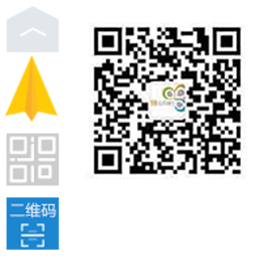
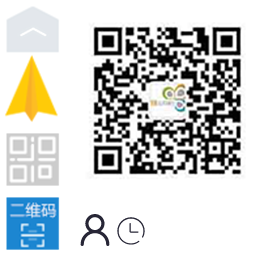
new version

Changed region(s): [[0.2985, 0.7761, 0.4478, 0.9254], [0.4478, 0.806, 0.5373, 0.9254]]

diff --git a/assets/css/blog-post.min.css b/assets/css/blog-post.min.css
@@ -1,2 +1,2 @@
-@font-face{font-family:'Consolas';src:url("/assets/font/Consolas.eot");src:url("/assets/font/Consolas.eot") format("embedded-opentype"),url("/assets/font/Consolas.woff") format("woff"),url("/assets/font/Consolas.ttf") format("truetype"),url("/assets/font/Consolas.svg") format("svg");font-weight:normal;font-style:normal}*{font-family:"Consolas","微软雅黑";box-sizing:border-box;outline:none}*::selection{background:transparent;color:#1C86D1}::-webkit-scrollbar{width:10px}::-webkit-scrollbar-track-piece{background-color:#f5f5f5;border-left:1px solid #d2d2d2}::-webkit-scrollbar-thumb{background-color:rgba(0,0,0,0.6);background-clip:padding-box;border:1px solid #979797;min-height:28px;border-radius:3px}::-webkit-scrollbar-thumb:hover{border:1px solid #636363;background-color:rgba(0,0,0,0.8)}::-webkit-scrollbar-thumb:active{border:1px solid #636363;background-color:#000}body{position:relative;font-size:0;margin:0}ul{list-style:none;padding:0;margin:0}button{border:none;padding:0;background:none;cursor:pointer}a{transition:.3s;color:#1C86D1;text-decoration:none}a:hover{color:#F92672}img{border-radius:5px;border:2px solid #f5f5f5}figure{margin:0}.fade-in{opacity:0}.clear-select{-webkit-touch-callout:none;-webkit-user-select:none;-khtml-user-select:none;-moz-user-select:none;-ms-user-select:none;user-select:none}.highlighter-rouge{margin:0 auto}.highlight{border-radius:5px;padding:20px;box-shadow:0px 0px 6px #000;overflow-x:scroll;tab-size:2}.bg-wrap{position:absolute;z-index:-1;width:100%;height:600px;overflow:hidden;text-align:center}.bg-wrap img{-webkit-filter:blur(20px);-moz-filter:blur(20px);-o-filter:blur(20px);filter:blur(20px);width:100%}.bg-wrap #article-title{position:absolute;top:50%;left:50%;transform:translate(-50%, -50%);color:#f5f5f5;margin:0;display:inline-block;font:200 60px/75px "Consolas","微软雅黑"}.bg-wrap #article-title::before{content:"";display:block;position:absolute;height:45px;width:496px;background-image:url("/assets/img/blog-post/line.png");background-repeat:no-repeat;left:-510px;top:10px;background-position:-100px -18px}.bg-wrap #article-title::after{content:"";display:block;position:absolute;height:45px;width:496px;background-image:url("/assets/img/blog-post/line.png");background-repeat:no-repeat;right:-510px;top:10px;background-position:-40px -136px}.container{position:relative;background:#F8F8F8;padding-top:600px;background-clip:content-box}nav{position:absolute;top:0;width:100%;height:45px;z-index:5201314}nav .nav-wrap{position:relative;width:800px;height:100%;margin:0 auto;transform-origin:50% 0}nav .nav-wrap figure{transition:0.5s cubic-bezier(0.285, 1.65, 0.745, 1.65);border-radius:50%;position:absolute;top:-130px;left:-130px;width:300px;height:300px;background:radial-gradient(circle at 50%, rgba(255,255,255,0.4) 0%, rgba(255,255,255,0.5) 25%, rgba(255,241,236,0.5) 60%);box-shadow:0px 3px 3px rgba(0,0,0,0.4);padding:146px 0px 0px 40px}nav .nav-wrap figure .logo-wrap{width:100%;height:100%}nav .nav-wrap figure .logo-wrap em img{width:62px;vertical-align:middle}nav .nav-wrap figure .logo-wrap span{font:200 40px/40px Arial,"微软雅黑"}nav .nav-wrap figure .logo-wrap .logo-name{vertical-align:middle;margin-left:10px;color:#f8f8f8;text-shadow:1px 1px 1px #1C86D1}nav .nav-wrap figure .logo-wrap .xgjd{margin-left:76px}nav .nav-wrap figure img{border:none}nav .nav-wrap figure:hover{transform:scale(0.95, 0.95)}article{position:absolute;left:0;width:100%;background:#F8F8F8;box-shadow:5px 0px 5px rgba(0,0,0,0.2);font-size:18px;min-height:2000px;overflow:hidden}article .article-box{width:800px;padding-top:50px;margin:0 auto}article .article-box img{margin:10px 0;max-width:100%;max-height:500px;border:2px solid #f5f5f5;text-align:center;cursor:pointer}article .article-box .title--move-active{transition:0.5s 0.8s;text-indent:20px;color:#E70601}article .article-box h2{transition:.3s;position:relative;display:inline-block;width:auto;height:65px;color:#fff;font:500 30px/55px "Consolas","微软雅黑";background:#1C86D1;padding:5px 40px 5px 10px;margin-left:-20px;border-radius:0px 15px 15px 0;text-shadow:1px 1px 12px rgba(0,0,0,0.8)}article .article-box h2::before{content:"";display:block;position:absolute;width:0;height:0;border:20px solid transparent;border-left:20px solid #1C86D1;bottom:-15px;left:0px}article .article-box h3{transition:.3s;height:45px;padding-left:10px;margin-left:-20px;background:#f5f5f5;border-left:10px solid #1C86D1;font:200 25px/45px "Consolas","微软雅黑"}article .tree-list-wrap{position:fixed;top:20px;right:-99999px;height:642px;overflow:hidden}article .tree-list-wrap .tree-section{position:relative;border-radius:5px;height:36px;padding-left:15px;font:200 20px/36px "Consolas","微软雅黑";color:#fff;background:#1C86D1;box-shadow:0px 2px 8px rgba(0,0,0,0.5)}article .tree-list-wrap .tree-list-title::after{content:"";display:block;position:absolute;width:0;height:0;border:8px solid transparent;border-top:8px solid #1C86D1}article .tree-list-wrap .tree-list-bottom::before{top:-16px;content:"";display:block;position:absolute;width:0;height:0;border:8px solid transparent;border-bottom:8px solid #1C86D1}article .tree-list-wrap .tree-list-box-hidden{max-height:0 !important}article .tree-list-wrap .tree-list-box{transition:max-height 0.8s ease-in-out;position:relative;margin:6px 0;max-height:556px;overflow:hidden}article .tree-list-wrap .tree-list-box .tree-list{padding:0 13px 0 22px}article .tree-list-wrap .tree-list-box .tree-list li{position:relative;height:35px;border-left:2px solid #1C86D1}article .tree-list-wrap .tree-list-box .tree-list li button{text-overflow:ellipsis;white-space:nowrap;overflow:hidden;width:calc(100% - 10px);text-align:left;font:400 18px/35px "Consolas","微软雅黑"}article .tree-list-wrap .tree-list-box .tree-list li button:hover{color:#1C86D1}article .tree-list-wrap .tree-list-box .tree-list .h2-tag{padding-left:18px}article .tree-list-wrap .tree-list-box .tree-list .h2-tag .tag-icon{border-radius:50%;position:absolute;top:10px;left:-7px;display:inline-block;width:12px;height:12px;border:3px solid #fff;background:#1C86D1}article .tree-list-wrap .tree-list-box .tree-list .h3-tag{padding-left:28px}article .tree-list-wrap .tree-list-box .tree-list .h3-tag button{font-size:14px;font-weight:200}article .tree-list-wrap .tree-list-box .scroll-bar-box{transition:.5s;position:absolute;top:0;right:5px;border-radius:5px;width:8px;height:100%;background:#E9E9E9;box-shadow:inset 0px 0px 3px rgba(0,0,0,0.8)}article .tree-list-wrap .tree-list-box .scroll-bar-box .scroll-bar{border-radius:5px;position:absolute;top:2px;width:100%;height:120px;cursor:pointer;background:#1C86D1}.pic-show-hidden{border-radius:50%;transform:scale(0, 0) !important;opacity:0}.btns-list-wrap{transition:.5s;position:fixed;bottom:85px;right:300px;width:55px;display:none;opacity:0}.btns-list-wrap .btns-list li{position:relative;width:55px;height:55px}.btns-list-wrap .btns-list li button{border-radius:3px;position:relative;width:100%;height:55px;background-image:url("/assets/img/blog-post/icons.png");background-repeat:no-repeat}.btns-list-wrap .btns-list .back-top{margin-bottom:30px}.btns-list-wrap .btns-list .back-top .back-top-btn{background-position:-6px 5px}.btns-list-wrap .btns-list .back-top .back-top-btn-active{background:#1C86D1 !important}.btns-list-wrap .btns-list .back-top .plane-wrap{position:absolute;top:-5px;width:55px;height:80px;overflow:hidden;cursor:pointer}.btns-list-wrap .btns-list .back-top .plane-wrap .plane{transition:.5s;position:absolute;bottom:-80px;content:"";display:block;width:100%;height:68px;background:url("/assets/img/blog-post/icons.png") -4px -56px no-repeat}.btns-list-wrap .btns-list .qr-code .qr-code-btn{background-position:-6px -133px}.btns-list-wrap .btns-list .qr-code .qr-code-btn:hover{background-position:-6px -195px}.btns-list-wrap .btns-list .qr-code .qr-table{transition:.5s;transform:scale(0, 0);transform-origin:200px 210px;position:absolute;top:-194px;left:-200px;width:180px;height:250px;background:#fff;border:1px solid #eee}.btns-list-wrap .btns-list .qr-code .qr-table p{text-align:center;font:300 14px/14px "Consolas","微软雅黑"}.btns-list-wrap .btns-list .qr-code .qr-table .qr-code-pic{width:172px;height:172px;background:url("/assets/img/blog-post/icons.png") -82px -14px}.btns-list-wrap .btns-list .qr-code .qr-table .qr-code-pic::before{content:"";display:block;position:absolute;width:0;height:0;border:10px solid transparent;border-left:10px solid #fff;right:-20px;bottom:26px}.btns-list-wrap .btns-list .qr-code .qr-table .qr-code-pic::after{content:"";display:block;position:absolute;width:0;height:0;border:12px solid transparent;border-left:12px solid #eee;z-index:-1;right:-24px;bottom:24px}.btns-list-wrap .btns-list .qr-code:hover .qr-table{transform:scale(1, 1)}.pic-show-wrap{transition:.5s;position:fixed;top:0;left:0;width:100%;min-height:100%;overflow:auto;background:rgba(0,0,0,0.8);text-align:center}.pic-show-wrap img{position:absolute;top:0;left:0;right:0;bottom:0;margin:auto;max-height:900px;max-width:1400px}
+@font-face{font-family:'Consolas';src:url("/assets/font/Consolas.eot");src:url("/assets/font/Consolas.eot") format("embedded-opentype"),url("/assets/font/Consolas.woff") format("woff"),url("/assets/font/Consolas.ttf") format("truetype"),url("/assets/font/Consolas.svg") format("svg");font-weight:normal;font-style:normal}*{font-family:"Consolas","微软雅黑";box-sizing:border-box;outline:none}*::selection{background:transparent;color:#1C86D1}::-webkit-scrollbar{width:10px}::-webkit-scrollbar-track-piece{background-color:#f5f5f5;border-left:1px solid #d2d2d2}::-webkit-scrollbar-thumb{background-color:rgba(0,0,0,0.6);background-clip:padding-box;border:1px solid #979797;min-height:28px;border-radius:3px}::-webkit-scrollbar-thumb:hover{border:1px solid #636363;background-color:rgba(0,0,0,0.8)}::-webkit-scrollbar-thumb:active{border:1px solid #636363;background-color:#000}body{position:relative;font-size:0;margin:0}ul{list-style:none;padding:0;margin:0}p{margin:0}button{border:none;padding:0;background:none;cursor:pointer}a{transition:.3s;color:#1C86D1;text-decoration:none}a:hover{color:#F92672}img{border-radius:5px;border:2px solid #f5f5f5}blockquote{margin:0}figure{margin:0}.fade-in{opacity:0}.clear-select{-webkit-touch-callout:none;-webkit-user-select:none;-khtml-user-select:none;-moz-user-select:none;-ms-user-select:none;user-select:none}.highlighter-rouge{margin:0 auto}.highlight{border-radius:5px;padding:20px;box-shadow:0px 0px 6px #000;overflow-x:scroll;tab-size:2}.bg-wrap{position:absolute;z-index:-1;width:100%;height:600px;overflow:hidden;text-align:center}.bg-wrap img{-webkit-filter:blur(20px);-moz-filter:blur(20px);-o-filter:blur(20px);filter:blur(20px);width:100%}.bg-wrap #article-title{position:absolute;top:50%;left:50%;transform:translate(-50%, -50%);color:#f5f5f5;margin:0;display:inline-block;font:200 60px/75px "Consolas","微软雅黑"}.bg-wrap #article-title::before{content:"";display:block;position:absolute;height:45px;width:496px;background-image:url("/assets/img/blog-post/line.png");background-repeat:no-repeat;left:-510px;top:10px;background-position:-100px -18px}.bg-wrap #article-title::after{content:"";display:block;position:absolute;height:45px;width:496px;background-image:url("/assets/img/blog-post/line.png");background-repeat:no-repeat;right:-510px;top:10px;background-position:-40px -136px}.container{position:relative;background:#F8F8F8;padding-top:600px;background-clip:content-box}nav{position:absolute;top:0;width:100%;height:45px;z-index:5201314}nav .nav-wrap{position:relative;width:800px;height:100%;margin:0 auto;transform-origin:50% 0}nav .nav-wrap figure{transition:0.5s cubic-bezier(0.285, 1.65, 0.745, 1.65);border-radius:50%;position:absolute;top:-130px;left:-130px;width:300px;height:300px;background:radial-gradient(circle at 50%, rgba(255,255,255,0.4) 0%, rgba(255,255,255,0.5) 25%, rgba(255,241,236,0.5) 60%);box-shadow:0px 3px 3px rgba(0,0,0,0.4);padding:146px 0px 0px 40px}nav .nav-wrap figure .logo-wrap{width:100%;height:100%}nav .nav-wrap figure .logo-wrap em img{width:62px;vertical-align:middle}nav .nav-wrap figure .logo-wrap span{font:200 40px/40px Arial,"微软雅黑"}nav .nav-wrap figure .logo-wrap .logo-name{vertical-align:middle;margin-left:10px;color:#f8f8f8;text-shadow:1px 1px 1px #1C86D1}nav .nav-wrap figure .logo-wrap .xgjd{margin-left:76px}nav .nav-wrap figure img{border:none}nav .nav-wrap figure:hover{transform:scale(0.95, 0.95)}article{position:absolute;left:0;width:100%;background:#F8F8F8;box-shadow:5px 0px 5px rgba(0,0,0,0.2);font-size:18px;min-height:2000px;overflow:hidden}article .article-info{width:800px;height:90px;padding-top:50px;margin:0 auto;text-align:right}article .article-info p{display:inline-block;font-size:0;margin:0 40px}article .article-info i{display:inline-block;width:32px;height:32px;background-image:url("/assets/img/blog-post/icons.png");vertical-align:middle;margin-right:10px}article .article-info span{font-size:20px;vertical-align:middle}article .article-info .author{background-position:-80px -214px;margin-right:15px}article .article-info .publish-time{background-position:-117px -214px}article .article-box{width:800px;margin:0 auto}article .article-box img{margin:10px 0;max-width:100%;max-height:500px;border:2px solid #f5f5f5;text-align:center;cursor:pointer}article .article-box .title--move-active{transition:0.5s 0.8s;text-indent:20px;color:#E70601}article .article-box h2{transition:.3s;position:relative;display:inline-block;width:auto;height:65px;color:#fff;font:500 30px/55px "Consolas","微软雅黑";background:#1C86D1;padding:5px 40px 5px 10px;margin-left:-20px;border-radius:0px 15px 15px 0;text-shadow:1px 1px 12px rgba(0,0,0,0.8)}article .article-box h2::before{content:"";display:block;position:absolute;width:0;height:0;border:20px solid transparent;border-left:20px solid #1C86D1;bottom:-15px;left:0px}article .article-box h3{transition:.3s;height:45px;padding-left:10px;margin-left:-20px;background:#f5f5f5;border-left:10px solid #1C86D1;font:200 25px/45px "Consolas","微软雅黑"}article .article-box blockquote{border-radius:5px;position:relative;padding:10px 5px 10px 30px;margin:8px 0px;font:200 15px/15px "Consolas","微软雅黑";box-shadow:inset 0px 1px 1px #909193,0px 1px 0px #fff;background:#CCD0D5}article .article-box blockquote::before{content:"";display:block;position:absolute;width:0;height:0;border:32px solid transparent;border-bottom:32px solid #1C86D1;top:-33px;left:-32px;transform:rotate(-45deg)}article .article-box blockquote::after{position:absolute;content:"摘录";color:#fff;top:5px;left:2px;font:200 12px/12px "微软雅黑"}article .tree-list-wrap{position:fixed;top:20px;right:-99999px;height:642px;overflow:hidden}article .tree-list-wrap .tree-section{position:relative;border-radius:5px;height:36px;padding-left:15px;font:200 20px/36px "Consolas","微软雅黑";color:#fff;background:#1C86D1;box-shadow:0px 2px 8px rgba(0,0,0,0.5)}article .tree-list-wrap .tree-list-title::after{content:"";display:block;position:absolute;width:0;height:0;border:8px solid transparent;border-top:8px solid #1C86D1}article .tree-list-wrap .tree-list-bottom::before{top:-16px;content:"";display:block;position:absolute;width:0;height:0;border:8px solid transparent;border-bottom:8px solid #1C86D1}article .tree-list-wrap .tree-list-box-hidden{max-height:0 !important}article .tree-list-wrap .tree-list-box{transition:max-height 0.8s ease-in-out;position:relative;margin:6px 0;max-height:556px;overflow:hidden}article .tree-list-wrap .tree-list-box .tree-list{padding:0 13px 0 22px}article .tree-list-wrap .tree-list-box .tree-list li{position:relative;height:35px;border-left:2px solid #1C86D1}article .tree-list-wrap .tree-list-box .tree-list li button{text-overflow:ellipsis;white-space:nowrap;overflow:hidden;width:calc(100% - 10px);text-align:left;font:400 18px/35px "Consolas","微软雅黑"}article .tree-list-wrap .tree-list-box .tree-list li button:hover{color:#1C86D1}article .tree-list-wrap .tree-list-box .tree-list .h2-tag{padding-left:18px}article .tree-list-wrap .tree-list-box .tree-list .h2-tag .tag-icon{border-radius:50%;position:absolute;top:10px;left:-7px;display:inline-block;width:12px;height:12px;border:3px solid #fff;background:#1C86D1}article .tree-list-wrap .tree-list-box .tree-list .h3-tag{padding-left:28px}article .tree-list-wrap .tree-list-box .tree-list .h3-tag button{font-size:14px;font-weight:200}article .tree-list-wrap .tree-list-box .scroll-bar-box{transition:.5s;position:absolute;top:0;right:5px;border-radius:5px;width:8px;height:100%;background:#E9E9E9;box-shadow:inset 0px 0px 3px rgba(0,0,0,0.8)}article .tree-list-wrap .tree-list-box .scroll-bar-box .scroll-bar{border-radius:5px;position:absolute;top:2px;width:100%;height:120px;cursor:pointer;background:#1C86D1}.btns-list-wrap{transition:.5s;position:fixed;bottom:85px;right:300px;width:55px;display:none;opacity:0}.btns-list-wrap .btns-list li{position:relative;width:55px;height:55px}.btns-list-wrap .btns-list li button{border-radius:3px;position:relative;width:100%;height:55px;background-image:url("/assets/img/blog-post/icons.png");background-repeat:no-repeat}.btns-list-wrap .btns-list .back-top{margin-bottom:30px}.btns-list-wrap .btns-list .back-top .back-top-btn{background-position:-6px 5px}.btns-list-wrap .btns-list .back-top .back-top-btn-active{background:#1C86D1 !important}.btns-list-wrap .btns-list .back-top .plane-wrap{position:absolute;top:-5px;width:55px;height:80px;overflow:hidden;cursor:pointer}.btns-list-wrap .btns-list .back-top .plane-wrap .plane{transition:.5s;position:absolute;bottom:-80px;content:"";display:block;width:100%;height:68px;background:url("/assets/img/blog-post/icons.png") -4px -56px no-repeat}.btns-list-wrap .btns-list .qr-code .qr-code-btn{background-position:-6px -133px}.btns-list-wrap .btns-list .qr-code .qr-code-btn:hover{background-position:-6px -195px}.btns-list-wrap .btns-list .qr-code .qr-table{transition:.5s;transform:scale(0, 0);transform-origin:200px 210px;position:absolute;top:-194px;left:-200px;width:180px;height:250px;background:#fff;border:1px solid #eee}.btns-list-wrap .btns-list .qr-code .qr-table p{text-align:center;font:300 14px/14px "Consolas","微软雅黑"}.btns-list-wrap .btns-list .qr-code .qr-table .qr-code-pic{width:172px;height:172px;background:url("/assets/img/blog-post/icons.png") -82px -14px}.btns-list-wrap .btns-list .qr-code .qr-table .qr-code-pic::before{content:"";display:block;position:absolute;width:0;height:0;border:10px solid transparent;border-left:10px solid #fff;right:-20px;bottom:26px}.btns-list-wrap .btns-list .qr-code .qr-table .qr-code-pic::after{content:"";display:block;position:absolute;width:0;height:0;border:12px solid transparent;border-left:12px solid #eee;z-index:-1;right:-24px;bottom:24px}.btns-list-wrap .btns-list .qr-code:hover .qr-table{transform:scale(1, 1)}.pic-show-wrap{transition:.5s;position:fixed;top:0;left:0;width:100%;min-height:100%;overflow:auto;background:rgba(0,0,0,0.8);text-align:center}.pic-show-wrap img{position:absolute;top:0;left:0;right:0;bottom:0;margin:auto;max-height:900px;max-width:1400px}.pic-show-hidden{border-radius:50%;transform:scale(0, 0) !important;opacity:0}
 /*# sourceMappingURL=blog-post.min.css.map */

diff --git a/_layouts/post.html b/_layouts/post.html
@@ -38,6 +38,16 @@
         </nav>
 
         <article>
+            <section class="article-info">
+                <p>
+                    <i class="publish-time"></i>
+                    <span>{{ page.date | %Y%M | date_to_string }}</span>
+                </p>
+                <p>
+                    <i class="author"></i>
+                    <span>{{ page.author }}</span>
+                </p>
+            </section>
             <section class="article-box">
                 {{ content }}
                 {% include duoshuo.html %}

diff --git a/assets/js/blog-post.js b/assets/js/blog-post.js
@@ -306,7 +306,7 @@ $(function () {
                 target = $("#"+flags[tIndex].cName);
                 t = target.position().top;
                 if(tIndex == 0) {
-                    t += 285; // 弥补背景卷上去的高度差
+                    t += 270; // 弥补背景卷上去的高度差
                 } 
             }
 
